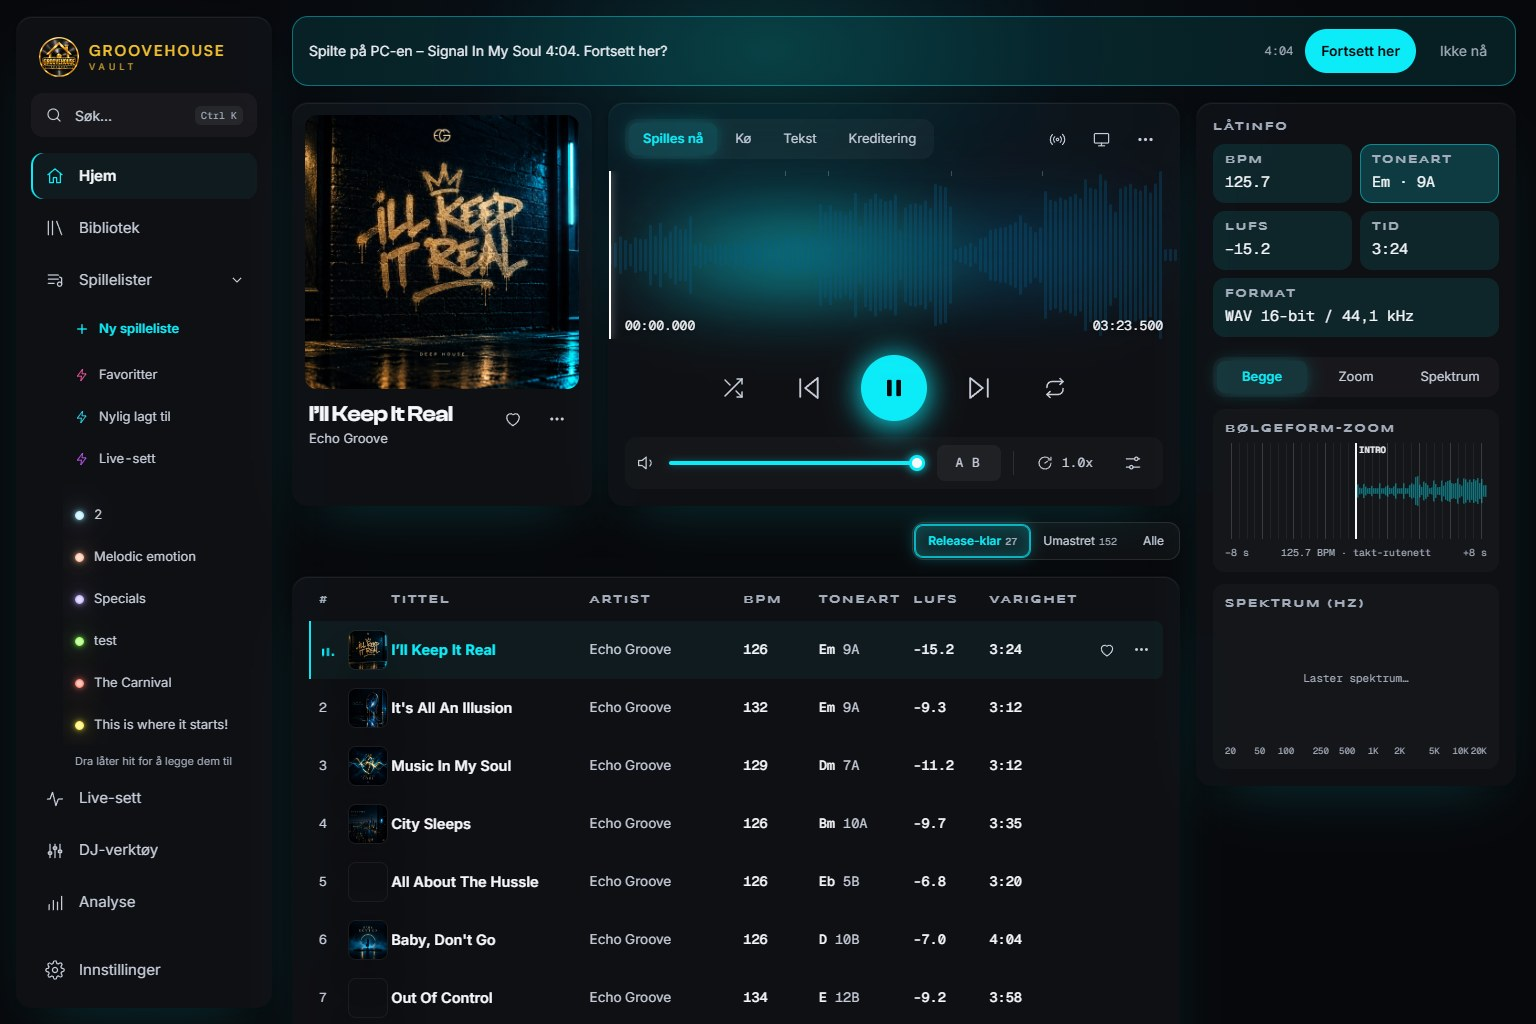
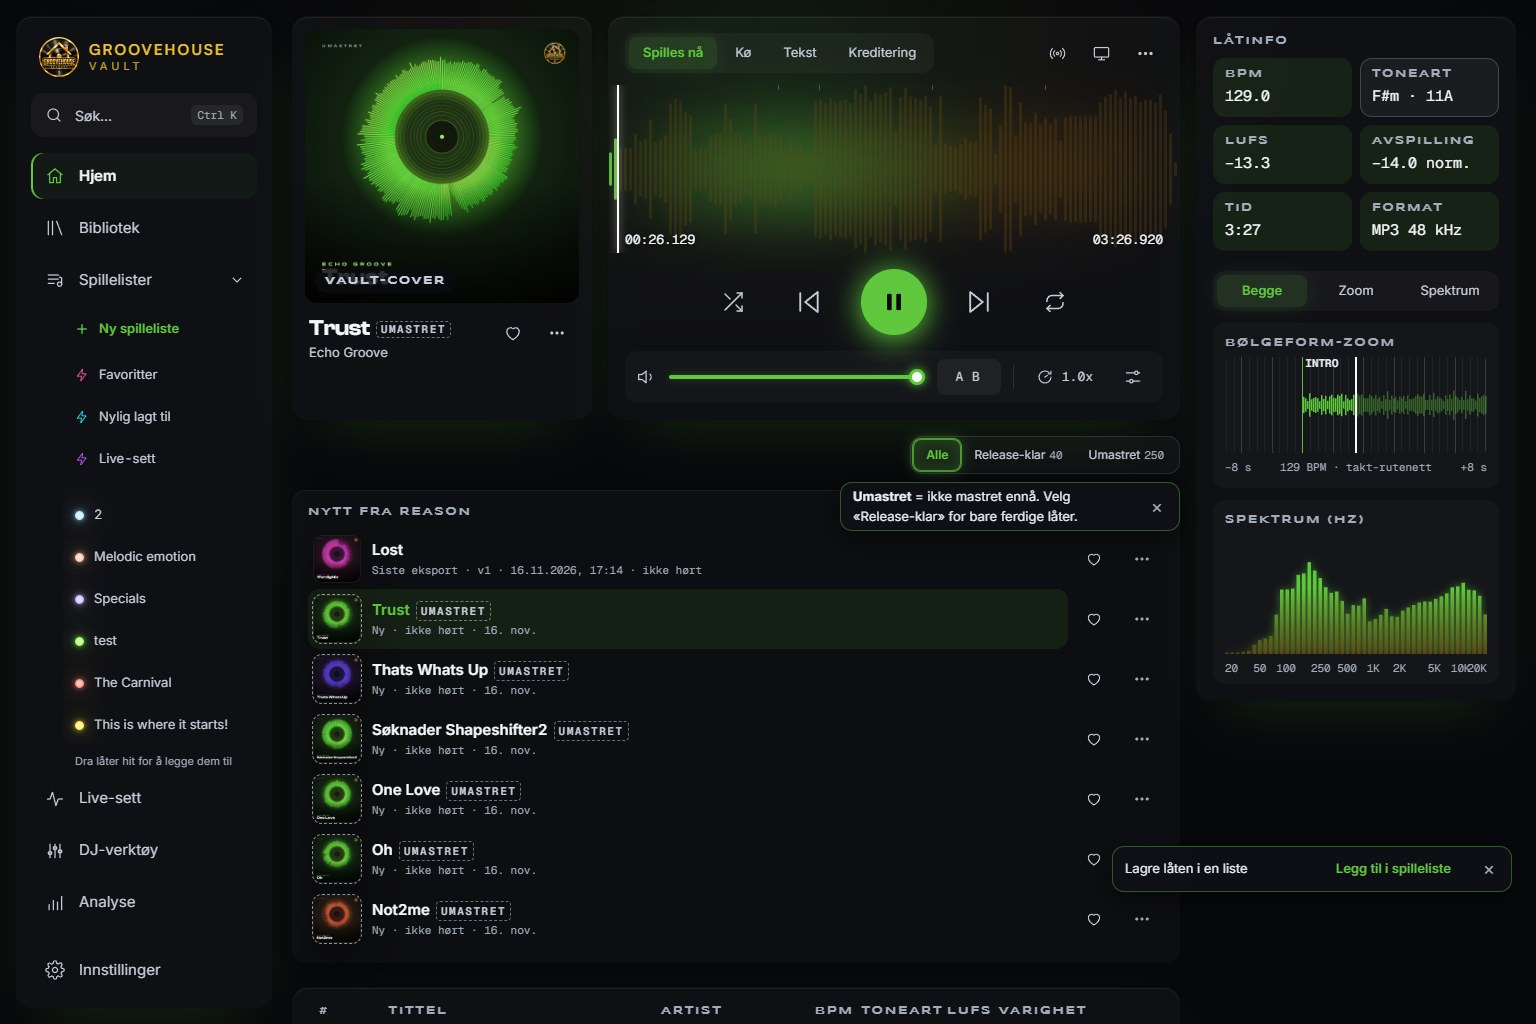
del-22: oppdater Playlists, ReleaseSheet og designsammenligninger

diff --git a/apps/web/src/components/Playlists.tsx b/apps/web/src/components/Playlists.tsx
@@ -37,6 +37,8 @@ import { useFavorites } from '../lib/library';
 import { DraftBadge } from './Draft';
 import { useLockConfirm } from './DjLock';
 import { useDialog } from '../lib/dialog';
+import { isApp } from '../lib/platform';
+import { useReleaseUi } from './ReleaseSheet';
 import { lockVersionLabel } from '../lib/lock';
 import { CoverArt } from './CoverArt';
 import { BoltIcon, ChevronDownIcon, GripIcon, MoreIcon, PlayIcon, PlusIcon, ShuffleIcon, TrashIcon } from './Icons';
@@ -758,6 +760,8 @@ export function PlaylistDetail({ id, tracks, onBack, onClosed, vctx }: { id: str
                           : []),
                         // Del 26: albumbyggeren med denne planen som utvalg
                         ...(v.playlist?.plan === 'album' ? ([['Bygg album', () => useAlbumUi.getState().show({ planId: id })]] as Array<[string, () => void]>) : []),
+                        // Del 24/26: release-pakke for hele albumet (bare på PC-en, der WAV-ene havner)
+                        ...(v.playlist?.plan === 'album' && isDesktop() && !isApp && v.assets.length ? ([['Forbered utgivelse …', () => useReleaseUi.getState().open(v.assets.filter((a) => a.manifest.kind !== 'set'), v.playlist?.name)]] as Array<[string, () => void]>) : []),
                         ['Dupliser', () => void usePlaylists.getState().duplicate(v.playlist!).then((p) => useToast.getState().show(`Lagde «${p.name}»`)).catch(toastError)],
                         ['Slett …', () => setConfirmDelete(true)]
                       ] as Array<[string, () => void]>

diff --git a/apps/web/src/components/ReleaseSheet.tsx b/apps/web/src/components/ReleaseSheet.tsx
@@ -24,10 +24,11 @@ interface PackResult {
   warnings: string[];
 }
 
-export const useReleaseUi = create<{ assets: LoadedAsset[] | null; open: (a: LoadedAsset[]) => void; close: () => void }>((set) => ({
+export const useReleaseUi = create<{ assets: LoadedAsset[] | null; title: string | null; open: (a: LoadedAsset[], title?: string) => void; close: () => void }>((set) => ({
   assets: null,
-  open: (assets) => set({ assets }),
-  close: () => set({ assets: null })
+  title: null,
+  open: (assets, title) => set({ assets, title: title ?? null }),
+  close: () => set({ assets: null, title: null })
 }));
 
 const ref = (a: LoadedAsset) => ({ slug: a.manifest.slug, variant: a.manifest.variant ?? null, version: a.manifest.version });
@@ -57,7 +58,7 @@ export function ReleaseSheetHost() {
 function ReleaseSheet({ assets }: { assets: LoadedAsset[] }) {
   const close = () => useReleaseUi.getState().close();
   const ref0 = useDialog<HTMLDivElement>(close);
-  const [title, setTitle] = useState(assets.length === 1 ? assets[0]!.manifest.title : '');
+  const [title, setTitle] = useState(() => useReleaseUi.getState().title ?? (assets.length === 1 ? assets[0]!.manifest.title : ''));
   const [genre, setGenre] = useState('Tech House');
   const [aiMusic, setAiMusic] = useState('');
   const [aiCover, setAiCover] = useState('');
